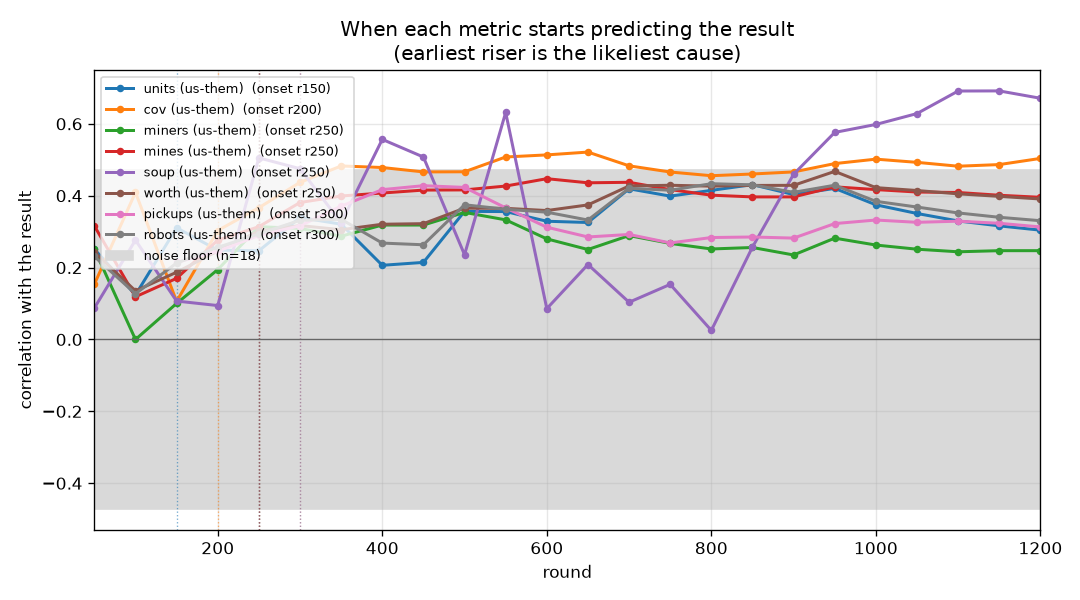
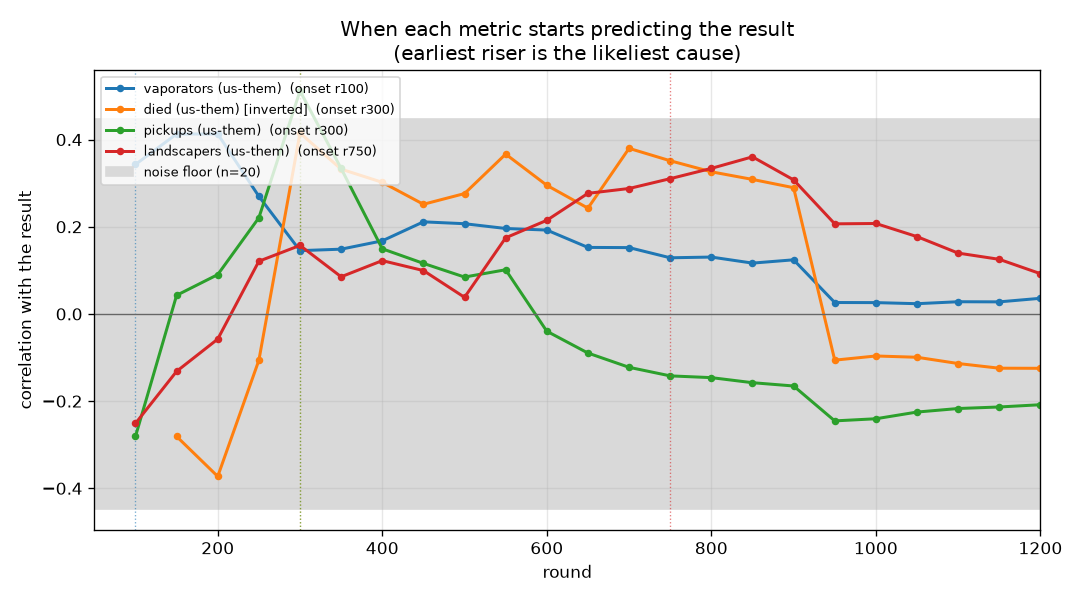
Block 28 (12/48) and the Squares seat trace: the plateau loses on where the dirt goes, not on seats
Claude-Session: https://claude.ai/code/session_01CTUHPRaZ9DbYUkpWKYf2Y2

diff --git a/progress/ONSET.md b/progress/ONSET.md
@@ -1,6 +1,6 @@
 # Which metric starts predicting the result first
 
-18 games, 3 wins. Noise floor about 0.47; a correlation inside that band is not evidence.
+20 games, 8 wins. Noise floor about 0.45; a correlation inside that band is not evidence.
 
 Every metric is oriented so **higher is better for us**, so a positive correlation always means
 "this being better goes with winning". `~avg` is the running mean over all rounds so far rather than
@@ -12,46 +12,46 @@ See `progress/METRICS.md` for how each quantity is computed.
 
 | onset | anti | metric | peak corr | r100 | r200 | r300 | r400 | r600 | r900 |
 |---|---|---|---|---|---|---|---|---|---|
-| r150 | - | units (us-them) | +0.43 | +0.12 | +0.25 | +0.34 | +0.21 | +0.33 | +0.40 |
-| r200 | - | cov (us-them) | +0.52 | +0.41 | +0.30 | +0.44 | +0.48 | +0.51 | +0.47 |
-| r250 | - | cov (us-them) ~avg | +0.53 | +0.32 | +0.29 | +0.38 | +0.44 | +0.48 | +0.51 |
-| r250 | - | miners (us-them) | +0.35 | +0.00 | +0.19 | +0.31 | +0.32 | +0.28 | +0.24 |
-| r250 | - | mines (us-them) | +0.45 | +0.12 | +0.28 | +0.38 | +0.41 | +0.45 | +0.40 |
-| r250 | - | soup (us-them) | +0.69 | +0.28 | +0.09 | +0.48 | +0.56 | +0.09 | +0.46 |
-| r250 | - | soup (us-them) ~avg | +0.62 | +0.28 | +0.27 | +0.44 | +0.52 | +0.54 | +0.41 |
-| r250 | - | worth (us-them) | +0.47 | +0.14 | +0.25 | +0.32 | +0.32 | +0.36 | +0.43 |
-| r300 | - | mines (us-them) ~avg | +0.46 | +0.18 | +0.24 | +0.32 | +0.37 | +0.42 | +0.43 |
-| r300 | - | pickups (us-them) | +0.43 | . | +0.25 | +0.32 | +0.42 | +0.31 | +0.28 |
-| r300 | - | pickups (us-them) ~avg | +0.41 | . | +0.27 | +0.30 | +0.36 | +0.39 | +0.33 |
-| r300 | - | robots (us-them) | +0.43 | +0.13 | +0.26 | +0.33 | +0.27 | +0.35 | +0.41 |
-| r300 | - | spawned (us-them) | +0.39 | +0.13 | +0.26 | +0.37 | +0.29 | +0.37 | +0.37 |
-| r300 | - | spawned (us-them) ~avg | +0.42 | +0.18 | +0.23 | +0.31 | +0.33 | +0.37 | +0.39 |
-| r350 | - | robots (us-them) ~avg | +0.45 | +0.18 | +0.23 | +0.29 | +0.31 | +0.36 | +0.41 |
-| r350 | - | units (us-them) ~avg | +0.45 | +0.18 | +0.25 | +0.29 | +0.29 | +0.34 | +0.42 |
-| r350 | - | worth (us-them) ~avg | +0.44 | +0.17 | +0.22 | +0.29 | +0.32 | +0.35 | +0.41 |
-| r500 | - | landscapers (us-them) | +0.54 | +0.08 | +0.16 | +0.20 | +0.14 | +0.39 | +0.51 |
-| r500 | - | miners (us-them) ~avg | +0.32 | +0.11 | +0.19 | +0.26 | +0.28 | +0.32 | +0.31 |
-| r550 | - | aba (us-them) [inverted] | +0.37 | +0.37 | -0.08 | +0.01 | +0.13 | +0.27 | +0.11 |
-| r600 | - | landscapers (us-them) ~avg | +0.55 | +0.08 | +0.16 | +0.15 | +0.18 | +0.30 | +0.49 |
-| r650 | r100 | vaporators (us-them) | -0.60 | -0.60 | -0.02 | +0.04 | +0.17 | +0.30 | +0.37 |
-| r700 | - | died (us-them) [inverted] | +0.45 | . | +0.16 | -0.09 | -0.03 | +0.07 | +0.36 |
-| r750 | - | dirtDeps (us-them) | +0.57 | +0.33 | +0.11 | +0.06 | +0.07 | +0.20 | +0.47 |
-| r750 | - | moves (us-them) | +0.37 | +0.16 | +0.21 | +0.23 | +0.25 | +0.26 | +0.32 |
-| r750 | - | netguns (us-them) | +0.75 | . | . | . | +0.12 | +0.23 | +0.75 |
-| r750 | - | netguns (us-them) ~avg | +0.64 | . | . | . | +0.12 | +0.22 | +0.58 |
-| r800 | - | digs (us-them) | +0.51 | +0.33 | +0.11 | +0.08 | +0.09 | +0.16 | +0.42 |
-| r850 | r100 | vaporators (us-them) ~avg | -0.60 | -0.60 | -0.28 | -0.09 | +0.04 | +0.19 | +0.31 |
-| r950 | - | dirtDeps (us-them) ~avg | +0.47 | +0.33 | +0.12 | +0.08 | +0.07 | +0.13 | +0.28 |
-| r950 | - | moves (us-them) ~avg | +0.35 | +0.12 | +0.20 | +0.24 | +0.25 | +0.25 | +0.30 |
-| r1000 | - | digs (us-them) ~avg | +0.43 | +0.33 | +0.13 | +0.10 | +0.10 | +0.11 | +0.25 |
-| - | - | aba (us-them) [inverted] ~avg | +0.31 | +0.31 | -0.01 | -0.01 | +0.03 | +0.16 | +0.19 |
-| - | - | died (us-them) [inverted] ~avg | +0.28 | . | +0.15 | +0.05 | -0.02 | +0.09 | +0.25 |
-| - | - | drones (us-them) | +0.29 | +0.28 | +0.24 | +0.23 | -0.09 | -0.03 | +0.21 |
-| - | - | drones (us-them) ~avg | +0.28 | +0.28 | +0.27 | +0.27 | +0.13 | +0.02 | +0.11 |
+| r100 | - | vaporators (us-them) | +0.41 | +0.34 | +0.41 | +0.15 | +0.17 | +0.19 | +0.12 |
+| r100 | - | vaporators (us-them) ~avg | +0.41 | +0.34 | +0.41 | +0.29 | +0.23 | +0.21 | +0.16 |
+| r300 | - | died (us-them) [inverted] | +0.42 | . | -0.37 | +0.42 | +0.30 | +0.30 | +0.29 |
+| r300 | - | pickups (us-them) | +0.51 | -0.28 | +0.09 | +0.51 | +0.15 | -0.04 | -0.17 |
+| r350 | - | pickups (us-them) ~avg | +0.34 | -0.28 | +0.02 | +0.29 | +0.29 | +0.09 | -0.12 |
+| r400 | r200 | died (us-them) [inverted] ~avg | -0.36 | . | -0.36 | +0.21 | +0.31 | +0.33 | +0.35 |
+| r750 | - | landscapers (us-them) | +0.36 | -0.25 | -0.06 | +0.16 | +0.12 | +0.21 | +0.31 |
+| r950 | - | landscapers (us-them) ~avg | +0.34 | -0.25 | -0.12 | +0.02 | +0.05 | +0.12 | +0.30 |
+| - | - | aba (us-them) [inverted] | -0.19 | -0.19 | -0.11 | -0.18 | -0.15 | -0.08 | +0.06 |
+| - | - | aba (us-them) [inverted] ~avg | -0.17 | -0.15 | -0.14 | -0.14 | -0.15 | -0.13 | -0.01 |
+| - | - | cov (us-them) | -0.19 | -0.15 | -0.01 | -0.11 | -0.17 | -0.02 | -0.00 |
+| - | - | cov (us-them) ~avg | -0.22 | -0.13 | -0.13 | -0.12 | -0.15 | -0.13 | -0.06 |
+| - | - | digs (us-them) | -0.15 | -0.08 | -0.14 | -0.11 | -0.04 | +0.02 | +0.09 |
+| - | - | digs (us-them) ~avg | -0.15 | -0.08 | -0.14 | -0.13 | -0.09 | -0.03 | +0.04 |
+| - | - | dirtDeps (us-them) | -0.18 | -0.09 | -0.16 | -0.08 | -0.04 | -0.01 | +0.04 |
+| - | - | dirtDeps (us-them) ~avg | -0.17 | -0.09 | -0.17 | -0.12 | -0.08 | -0.04 | +0.00 |
+| - | - | drones (us-them) | +0.28 | +0.28 | +0.14 | +0.14 | -0.10 | -0.18 | -0.04 |
+| - | - | drones (us-them) ~avg | +0.28 | +0.28 | +0.17 | +0.17 | +0.06 | -0.11 | -0.10 |
 | - | - | drowned (us-them) [inverted] | . | . | . | . | . | . | . |
 | - | - | drowned (us-them) [inverted] ~avg | . | . | . | . | . | . | . |
-| - | - | hqBuried (us-them) [inverted] | +0.15 | +0.15 | . | . | . | . | . |
-| - | - | hqBuried (us-them) [inverted] ~avg | +0.15 | +0.15 | . | . | . | . | . |
+| - | - | hqBuried (us-them) [inverted] | -0.28 | -0.28 | . | . | -0.28 | -0.07 | -0.28 |
+| - | - | hqBuried (us-them) [inverted] ~avg | -0.28 | -0.28 | -0.28 | -0.07 | -0.07 | -0.07 | -0.07 |
+| - | - | miners (us-them) | -0.29 | +0.27 | -0.14 | -0.19 | -0.20 | -0.14 | +0.07 |
+| - | - | miners (us-them) ~avg | +0.22 | +0.22 | +0.08 | -0.10 | -0.15 | -0.17 | -0.06 |
+| - | - | mines (us-them) | -0.24 | +0.21 | +0.19 | -0.02 | -0.14 | -0.19 | -0.16 |
+| - | - | mines (us-them) ~avg | -0.22 | +0.17 | +0.19 | +0.13 | +0.00 | -0.13 | -0.16 |
+| - | - | moves (us-them) | -0.14 | -0.07 | -0.13 | -0.09 | -0.02 | -0.06 | +0.03 |
+| - | - | moves (us-them) ~avg | -0.12 | -0.09 | -0.10 | -0.11 | -0.07 | -0.06 | -0.02 |
+| - | - | netguns (us-them) | +0.19 | . | . | . | . | +0.00 | +0.04 |
+| - | - | netguns (us-them) ~avg | +0.19 | . | . | . | . | +0.03 | +0.05 |
+| - | - | robots (us-them) | +0.19 | +0.15 | +0.01 | +0.02 | -0.03 | -0.01 | +0.14 |
+| - | - | robots (us-them) ~avg | +0.17 | +0.11 | +0.11 | +0.07 | +0.02 | -0.02 | +0.08 |
+| - | r950 | soup (us-them) | -0.35 | -0.04 | +0.02 | +0.30 | -0.18 | -0.21 | -0.29 |
+| - | r1150 | soup (us-them) ~avg | -0.31 | +0.02 | -0.06 | +0.08 | -0.05 | -0.17 | -0.23 |
+| - | - | spawned (us-them) | +0.22 | +0.15 | +0.07 | -0.12 | -0.11 | -0.09 | +0.09 |
+| - | - | spawned (us-them) ~avg | +0.18 | +0.11 | +0.14 | +0.04 | -0.04 | -0.10 | -0.00 |
+| - | - | units (us-them) | +0.21 | +0.21 | -0.12 | +0.01 | -0.13 | -0.08 | +0.12 |
+| - | - | units (us-them) ~avg | +0.16 | +0.16 | +0.02 | -0.00 | -0.06 | -0.12 | +0.02 |
+| - | - | worth (us-them) | +0.27 | +0.08 | +0.23 | +0.18 | +0.05 | +0.04 | +0.10 |
+| - | - | worth (us-them) ~avg | +0.23 | +0.10 | +0.20 | +0.22 | +0.15 | +0.08 | +0.08 |
 
 **Reading it.** Earliest onset is the first place to look: temporal precedence is the one causal hint a
 correlation can honestly give. Late-onset metrics are usually the scoreboard rather than the cause -- by then

diff --git a/BENCHMARK.md b/BENCHMARK.md
@@ -61,7 +61,7 @@ every recorded block; the tier is the most recent build's record against that op
 | `EmaPajic.Mark3` | EmaPajic_Battlecode-2020 (c060a22) | - | - | untested |  |
 | `EmaPajic.Mark4` | EmaPajic_Battlecode-2020 (c060a22) | - | - | untested |  |
 | `EmaPajic.Mark5` | EmaPajic_Battlecode-2020 (c060a22) | - | - | untested |  |
-| `EmaPajic.Qualifications` | EmaPajic_Battlecode-2020 (c060a22) | 0 | 12 | locked | 20 0 18 0 |
+| `EmaPajic.Qualifications` | EmaPajic_Battlecode-2020 (c060a22) | 0 | 12 | locked | 20 0 17 0 |
 | `EmaPajic.SeedingBot` | EmaPajic_Battlecode-2020 (c060a22) | - | - | untested |  |
 | `GabrielDWu.basicbot` | GabrielDWu_blezers-battlecode2020 (c0283f8) | - | - | untested |  |
 | `GabrielDWu.blezerbot` | GabrielDWu_blezers-battlecode2020 (c0283f8) | - | - | untested |  |
@@ -159,7 +159,7 @@ every recorded block; the tier is the most recent build's record against that op
 | `arya-k.donothing` | arya-k_bc20 (1b969b3) | - | - | untested |  |
 | `atliSig.buttletplayer` | atliSig_battlecode20-scaffold (b64b063) | 100 | 1 | peer(>90 once) | 100 |
 | `awesomelemonade.citricsky` | awesomelemonade_Battlecode2020 (7a50e66) | 0 | 16 | locked | 0 0 4 0 |
-| `battlecode20-team4.finalbota` | battlecode20-team4_battlecode20-scaffold (1cee065) | 24 | 17 | target | 0 8 28 24 |
+| `battlecode20-team4.finalbota` | battlecode20-team4_battlecode20-scaffold (1cee065) | 24 | 17 | target | 0 8 27 24 |
 | `battlecode20-team4.team4enemy` | battlecode20-team4_battlecode20-scaffold (1cee065) | - | - | untested |  |
 | `battlecode20-team4.team4player` | battlecode20-team4_battlecode20-scaffold (1cee065) | - | - | untested |  |
 | `battlecode.lectureplayer` | battlecode_lectureplayer (2836576) | - | - | untested |  |
@@ -170,11 +170,11 @@ every recorded block; the tier is the most recent build's record against that op
 | `benzyx.espada` | benzyx_bc20-waterloo (05df2e7) | - | - | untested |  |
 | `benzyx.firstplayer` | benzyx_bc20-waterloo (05df2e7) | - | - | untested |  |
 | `benzyx.kurobot` | benzyx_bc20-waterloo (05df2e7) | - | - | untested |  |
-| `benzyx.seeding` | benzyx_bc20-waterloo (05df2e7) | 40 | 15 | target | 25 17 56 40 |
+| `benzyx.seeding` | benzyx_bc20-waterloo (05df2e7) | 40 | 15 | target | 25 17 53 40 |
 | `benzyx.tortuga` | benzyx_bc20-waterloo (05df2e7) | - | - | untested |  |
 | `charboltron.master_player` | charboltron_pdx_battlecode_2020_team_11 (f78f1e3) | - | - | untested |  |
 | `charboltron.team11newbot` | charboltron_pdx_battlecode_2020_team_11 (f78f1e3) | 100 | 1 | peer(>90 once) | 100 |
-| `cormackikkert.whyPermutator` | cormackikkert_battlecode2020 (4d230c4) | 40 | 15 | target | 25 17 33 40 |
+| `cormackikkert.whyPermutator` | cormackikkert_battlecode2020 (4d230c4) | 40 | 15 | target | 25 17 34 40 |
 | `cormackikkert.whyPermutatorOld` | cormackikkert_battlecode2020 (4d230c4) | - | - | untested |  |
 | `cosimogonnelli.Team3player` | cosimogonnelli_CS454-554-SE (d7dc657) | 80 | 5 | peer | 80 |
 | `cs454-w20-team3.oldbot` | cs454-w20-team3_team3-bot (502c334) | - | - | untested |  |
@@ -279,10 +279,10 @@ every recorded block; the tier is the most recent build's record against that op
 | `poortho.rush` | poortho_battlecode-2020 (ebbd61e) | - | - | untested |  |
 | `poortho.rush_bot` | poortho_battlecode-2020 (ebbd61e) | - | - | untested |  |
 | `poortho.stable_miner1` | poortho_battlecode-2020 (ebbd61e) | - | - | untested |  |
-| `poortho.stable_seeding_bot` | poortho_battlecode-2020 (ebbd61e) | 31 | 16 | target | 0 17 16 31 |
+| `poortho.stable_seeding_bot` | poortho_battlecode-2020 (ebbd61e) | 31 | 16 | target | 0 17 19 31 |
 | `ps789.dennisTestPlayer` | ps789_AZBattlecode (f1d54ab) | - | - | untested |  |
 | `ps789.phillipTestPlayer` | ps789_AZBattlecode (f1d54ab) | - | - | untested |  |
-| `ronniesong0809.finalbota` | ronniesong0809_battlecode20-RADS (1cee065) | 7 | 15 | locked | 0 18 15 7 |
+| `ronniesong0809.finalbota` | ronniesong0809_battlecode20-RADS (1cee065) | 7 | 15 | locked | 0 18 16 7 |
 | `ronniesong0809.team4enemy` | ronniesong0809_battlecode20-RADS (1cee065) | - | - | untested |  |
 | `ronniesong0809.team4player` | ronniesong0809_battlecode20-RADS (1cee065) | - | - | untested |  |
 | `rsandzimier.PlayerAlpha` | rsandzimier_battlecode2020 (8d856c3) | - | - | untested |  |
@@ -325,9 +325,9 @@ every recorded block; the tier is the most recent build's record against that op
 | `willBoyd8.droideka` | willBoyd8_BattleDroid (4b1d4ad) | - | - | untested |  |
 | `willBoyd8.empire` | willBoyd8_BattleDroid (4b1d4ad) | - | - | untested |  |
 | `willBoyd8.mouse` | willBoyd8_BattleDroid (4b1d4ad) | - | - | untested |  |
-| `winkelmantanner.tannerplayer` | winkelmantanner_battlecode2020_the-levee-builders (7f49f11) | 23 | 13 | target | 0 25 17 23 |
+| `winkelmantanner.tannerplayer` | winkelmantanner_battlecode2020_the-levee-builders (7f49f11) | 23 | 13 | target | 0 25 18 23 |
 | `wpine215.stardustv1` | wpine215_battlecode (d570d57) | - | - | untested |  |
-| `wpine215.stardustv2` | wpine215_battlecode (d570d57) | 65 | 17 | peer | 0 30 47 65 |
+| `wpine215.stardustv2` | wpine215_battlecode (d570d57) | 65 | 17 | peer | 0 30 48 65 |
 | `yaonam.Robot_1` | yaonam_battlecode2020 (bb363f5) | 62 | 8 | peer | 62 |
 
 285 bot packages from 68 repositories.

diff --git a/progress/ELO.md b/progress/ELO.md
@@ -1,20 +1,20 @@
 # Elo ladder
 
-1337 scrimmages (ours only); K=32 from 1500; our team is **us**: rank 66 of 66 rated bots, Elo 1259, 1337 games; 0 bots not yet met.
+1385 scrimmages (ours only); K=32 from 1500; our team is **us**: rank 65 of 66 rated bots, Elo 1361, 1385 games; 0 bots not yet met.
 
 | rank | bot | Elo | games | W-L (theirs) |
 |---|---|---|---|---|
-| 1 | awesomelemonade.citricsky | 1809 | 86 | 84-2 |
-| 2 | uvafan.v14_final_bot | 1777 | 78 | 76-2 |
-| 3 | AngusRitossa.newbot | 1774 | 83 | 79-4 |
-| 4 | rzhan11.quals_bot | 1727 | 78 | 72-6 |
-| 5 | IvanGeffner.finalbota | 1673 | 84 | 74-10 |
-| 6 | ronniesong0809.finalbota | 1651 | 82 | 71-11 |
-| 7 | poortho.stable_seeding_bot | 1627 | 76 | 62-14 |
-| 8 | EmaPajic.Qualifications | 1615 | 78 | 68-10 |
-| 9 | mvpatel2000.qual | 1588 | 81 | 66-15 |
-| 10 | winkelmantanner.tannerplayer | 1587 | 75 | 61-14 |
-| 11 | battlecode20-team4.finalbota | 1529 | 80 | 62-18 |
+| 1 | awesomelemonade.citricsky | 1811 | 88 | 86-2 |
+| 2 | uvafan.v14_final_bot | 1782 | 80 | 78-2 |
+| 3 | AngusRitossa.newbot | 1780 | 87 | 83-4 |
+| 4 | rzhan11.quals_bot | 1733 | 80 | 74-6 |
+| 5 | IvanGeffner.finalbota | 1675 | 85 | 75-10 |
+| 6 | ronniesong0809.finalbota | 1636 | 86 | 74-12 |
+| 7 | EmaPajic.Qualifications | 1628 | 82 | 72-10 |
+| 8 | winkelmantanner.tannerplayer | 1584 | 79 | 64-15 |
+| 9 | poortho.stable_seeding_bot | 1579 | 79 | 63-16 |
+| 10 | mvpatel2000.qual | 1575 | 85 | 69-16 |
+| 11 | battlecode20-team4.finalbota | 1517 | 84 | 65-19 |
 | 12 | ovimura.welovesoup | 1491 | 1 | 0-1 |
 | 13 | TeamSerpentine.eendagsvliegjes | 1491 | 1 | 0-1 |
 | 14 | orionquick.aldebaranplayer | 1491 | 1 | 0-1 |
@@ -51,15 +51,15 @@
 | 45 | charboltron.team11newbot | 1488 | 1 | 0-1 |
 | 46 | djkeyes.addingComm | 1488 | 1 | 0-1 |
 | 47 | ARognes.FinalSubmission | 1487 | 5 | 2-3 |
-| 48 | cormackikkert.whyPermutator | 1485 | 77 | 53-24 |
-| 49 | cosimogonnelli.Team3player | 1480 | 5 | 1-4 |
-| 50 | yaonam.Robot_1 | 1474 | 8 | 3-5 |
-| 51 | VinayaBhat.team10pdx | 1472 | 7 | 2-5 |
-| 52 | Tim-gubski.AngryWaffleMaker | 1463 | 7 | 2-5 |
-| 53 | denver-blake.sprint | 1454 | 5 | 0-5 |
+| 48 | cosimogonnelli.Team3player | 1480 | 5 | 1-4 |
+| 49 | yaonam.Robot_1 | 1474 | 8 | 3-5 |
+| 50 | VinayaBhat.team10pdx | 1472 | 7 | 2-5 |
+| 51 | Tim-gubski.AngryWaffleMaker | 1463 | 7 | 2-5 |
+| 52 | denver-blake.sprint | 1454 | 5 | 0-5 |
+| 53 | cormackikkert.whyPermutator | 1451 | 81 | 55-26 |
 | 54 | KyleHassold.sprintbot | 1448 | 5 | 0-5 |
-| 55 | laurenschneider.pdx_team_one | 1444 | 81 | 53-28 |
-| 56 | J-J-Chen.player | 1441 | 5 | 0-5 |
+| 55 | J-J-Chen.player | 1441 | 5 | 0-5 |
+| 56 | laurenschneider.pdx_team_one | 1436 | 84 | 55-29 |
 | 57 | AllenWang314.bot1 | 1435 | 5 | 0-5 |
 | 58 | GabrielDWu.buildawall2 | 1432 | 5 | 0-5 |
 | 59 | cs454-w20-team3.playbot | 1431 | 10 | 4-6 |
@@ -67,6 +67,6 @@
 | 61 | 9mAhmad.lostincoordinates | 1412 | 5 | 0-5 |
 | 62 | 9mAhmad.MahinBot | 1398 | 5 | 0-5 |
 | 63 | mhahn2003.nonrush | 1387 | 21 | 9-12 |
-| 64 | benzyx.seeding | 1367 | 74 | 41-33 |
-| 65 | wpine215.stardustv2 | 1317 | 80 | 43-37 |
-| 66 | **us** | 1259 | 1337 | 346-991 |
+| 64 | benzyx.seeding | 1375 | 78 | 44-34 |
+| 65 | **us** | 1361 | 1385 | 358-1027 |
+| 66 | wpine215.stardustv2 | 1304 | 83 | 44-39 |

diff --git a/TRAINING_LOG.md b/TRAINING_LOG.md
@@ -899,6 +899,27 @@ question for the next session is a step-by-step comparison of the first eight ne
 choices under `arch_plateau/Landscaper.pickTile`/`freeRingTile` and `g_iter3/Landscaper.pickSeat`
 on Squares, where three claimants fail.
 
+**Answered by the trace (2026-09-24, `diag/seats-Squares.*`, both bots with seat events on system-out).**
+The premise was wrong: on Squares g_iter3 also seats only five ring tiles (seated at r100, 131,
+137, 150, 150; the sixth and later newborns become helpers, two of them after a `@badseat`). The
+difference is what happens to the unseated tiles. g_iter3's helpers stand outside the ring and pour
+every load into it, so all eight tiles rise together (28 26 23 28 26 30 28 30 at r200) and the
+ring reaches 1510 at r2000. The plateau rewrite's claimants chase the same tiles (two newborns
+pick [11,32] at r79 and r85; three pick [11,30] at r110, r123 and r137, none reaches it, all
+three strike it off around r160-180 and re-pick tiles that are already held), and its holders'
+inward feeding raises the unheld tiles above the ground (5, 8, 10 at r110; 10-15 at r140) before
+anyone arrives, so they are unclimbable from r140 while one tile with no held neighbour stays at
+4 until r220. The dirt that does arrive is spread over tiers 2 and 3 as well: the plateau ring
+stands at 864 at r2000 (57% of g_iter3's), the same halving the citadel showed with 16 tiles. So
+the plateau does not lose on seat count; it loses on where the dirt goes. Reopening it means
+keeping every load on the eight ring tiles until the ring is safe (no tier-2 or tier-3 self-raise
+before ~r1500) and letting claimants hold a tile in place without ever re-picking; anything else
+is the citadel again.
+
+## Block 28 -- g_iter3 against the challenge pool (run block28, 2026-09-24)
+
+48 games: **12/48 (25%)**; cumulative for g_iter3 168/780 (21.5%). Elo 1361, rank 65 of 66.
+
 ## Block 27 -- g_iter3 against the challenge pool (run block27, 2026-09-24)
 
 48 games: **6/48 (12.5%)**; cumulative for g_iter3 156/732 (21.3%).

diff --git a/HANDOFF.md b/HANDOFF.md
@@ -13,10 +13,11 @@ Read `CLAUDE.md`, then `TRAINING_ALGORITHM.md`, `RULES.md`, this file, then the 
   `tools/citadel-diag.sh` and `replay-dump.sh --ringd`.
 - **Incumbent and submission: `src/g_iter3`** (Iteration 8, accepted 39-9 over g_iter2). `src/g_iter4` (the late raid,
   provisional) was withdrawn on 2026-09-24 after 228 ladder games at 20% against g_iter3's 26%.
-- Plateau, final state 2026-09-24: seven sweeps of the slot revision at 2-10/24. Root cause narrowed to the first
-  hundred rounds -- the rewrite seats five of eight ring tiles where g_iter3 seats eight, and an unseated ring tile is
-  unclimbable ever after. First job if reopened: trace the first eight newborns' seat choices on Squares under both
-  implementations (TRAINING_LOG.md, plat13).
+- Plateau, final state 2026-09-24: seven sweeps of the slot revision at 2-10/24. The Squares seat trace (TRAINING_LOG.md
+  after plat13) showed that g_iter3 also seats only five ring tiles there; it wins because its helpers put every load on
+  the eight ring tiles (1510 at r2000) while the plateau spreads dirt over tiers 2-3 (864) and its holders' inward
+  feeding makes the unheld tiles unclimbable by r140. If reopened: no tier-2/3 self-raise before ~r1500, and claimants
+  never re-pick.
 - Plateau claims were revised twice more after the gates (arrival-settled, then deterministic slots posted by the school
   and read from the last two blocks at birth): sweeps `plat7`-`plat11` 8, 10, 9, 9, 5 of 24 vs g_iter3 with per-game
   tables (slots, churn, deaths, ring minima) in TRAINING_LOG.md. At the incumbent's own structure the rewritten roles
